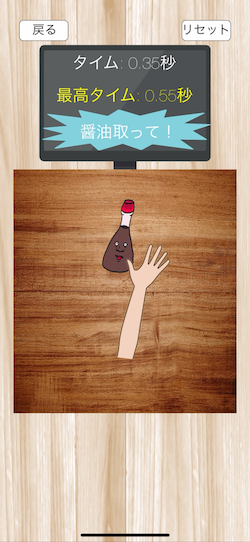
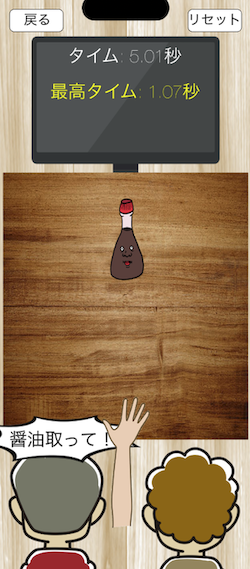
キャラクターを追加、メッセージをランダム表示

diff --git a/GetTheSeasoning/GameScene.swift b/GetTheSeasoning/GameScene.swift
@@ -16,9 +16,15 @@ class GameScene: SKScene, SKPhysicsContactDelegate {
     var flooring: SKSpriteNode!
     var monitor: SKSpriteNode!
     var desk: SKSpriteNode!
+    var mother: SKSpriteNode!
+    var father: SKSpriteNode!
     var arm: SKSpriteNode!
     var soysauce: SKSpriteNode!
     var messageImage: SKSpriteNode!
+    
+    var talker: Int!
+    
+    var isArmMoveRestriction: Bool = true  // 腕のY軸移動制限
     
     var timerLabel: SKLabelNode!
     var bestTime: TimeInterval = Double.greatestFiniteMagnitude
@@ -100,7 +106,21 @@ class GameScene: SKScene, SKPhysicsContactDelegate {
         desk.position = CGPoint(x: frame.midX, y: frame.midY - 50)
         desk.zPosition = 0
         addChild(desk)
-    
+
+        // お父さん
+        let fatherTexture = SKTexture(imageNamed: "father")
+        father = SKSpriteNode(texture: fatherTexture, size: CGSize(width: 400, height: 400))
+        father.position = CGPoint(x: frame.midX - 150, y: frame.midY - 500)
+        father.zPosition = 0
+        addChild(father)
+
+        // お母さん
+        let motherTexture = SKTexture(imageNamed: "mother")
+        mother = SKSpriteNode(texture: motherTexture, size: CGSize(width: 400, height: 400))
+        mother.position = CGPoint(x: frame.midX + 150, y: frame.midY - 500)
+        mother.zPosition = 0
+        addChild(mother)
+        
         // タイム計測
         timerLabel = SKLabelNode(text: "タイム: 0秒")
         timerLabel.position = CGPoint(x: frame.midX, y: frame.maxY - 170)
@@ -123,6 +143,7 @@ class GameScene: SKScene, SKPhysicsContactDelegate {
         // 腕に物理ボディを追加
         arm.physicsBody = SKPhysicsBody(texture: armTexture, size: arm.size)
         arm.physicsBody?.isDynamic = true
+//        arm.physicsBody?.allowsRotation = false // 回転しない
         arm.physicsBody?.categoryBitMask = PhysicsCategory.arm
         arm.physicsBody?.contactTestBitMask = PhysicsCategory.soySauce | PhysicsCategory.wall
         arm.physicsBody?.collisionBitMask = PhysicsCategory.soySauce | PhysicsCategory.wall
@@ -134,6 +155,13 @@ class GameScene: SKScene, SKPhysicsContactDelegate {
         spawnSoysauce()
         // 指示
         startMessageTimer()
+    }
+    
+    override func update(_ currentTime: TimeInterval) {
+        // 腕の位置を制限する
+        if isArmMoveRestriction {
+            arm.position.y = min(frame.midY - 400, arm.position.y) // 初期位置より上には移動不可
+        }
     }
     
     // 戻るボタン
@@ -194,9 +222,15 @@ class GameScene: SKScene, SKPhysicsContactDelegate {
         currentMessageLabel?.removeFromParent()
         
         let messageLabel = SKLabelNode(text: message)
-        messageLabel.position = CGPoint(x: frame.midX, y: frame.maxY - 340)
+        if talker == 0 {
+            // father
+            messageLabel.position = CGPoint(x: frame.midX - 150, y: frame.midY - 365)
+        } else {
+            // mother
+            messageLabel.position = CGPoint(x: frame.midX + 150, y: frame.midY - 365)
+        }
         messageLabel.fontSize = 40
-        messageLabel.fontColor = SKColor.white
+        messageLabel.fontColor = SKColor.black
         messageLabel.zPosition = 2
         addChild(messageLabel)
         // 現在のメッセージ
@@ -208,19 +242,28 @@ class GameScene: SKScene, SKPhysicsContactDelegate {
         guard !isIndicatingFlag else { return }
         isIndicatingFlag = true;
 
-        let interval = Double.random(in: 6.0...8.0);
+        let interval = Double.random(in: 7.0...10.0);
         messageTimer = Timer.scheduledTimer(withTimeInterval: interval, repeats: true) { [weak self] _ in
             guard let self = self else { return }
+            talker = Int.random(in: 0...1)  // 指示を出す人
             // メッセージの吹き出し
-            let messageImageTexture = SKTexture(imageNamed: "messageImage")
-            messageImage = SKSpriteNode(texture: messageImageTexture, size: CGSize(width: 450, height: 110))
-            messageImage.position = CGPoint(x: frame.midX, y: frame.maxY - 320)
+            self.messageImage?.removeFromParent()
+            let messageHardTexture = SKTexture(imageNamed: "message_hard")
+            messageImage = SKSpriteNode(texture: messageHardTexture, size: CGSize(width: 370, height: 110))
+            if talker == 0 {
+                // father
+                messageImage.position = CGPoint(x: frame.midX - 150, y: frame.midY - 350)
+            } else {
+                // mother
+                messageImage.position = CGPoint(x: frame.midX + 150, y: frame.midY - 350)
+            }
             if let messageImage = self.messageImage {
                 self.messageImage.zPosition = 1
                 self.addChild(messageImage)
             }
             self.showMessage("醤油取って！")
             self.startTimer()
+            isArmMoveRestriction = false
         }
     }
     
@@ -338,8 +381,8 @@ class GameScene: SKScene, SKPhysicsContactDelegate {
         wall.physicsBody = SKPhysicsBody(rectangleOf: wall.size)
         wall.physicsBody?.isDynamic = false
         wall.physicsBody?.categoryBitMask = PhysicsCategory.wall
-        wall.physicsBody?.contactTestBitMask = PhysicsCategory.arm
-        wall.physicsBody?.collisionBitMask = PhysicsCategory.arm
+        wall.physicsBody?.contactTestBitMask = PhysicsCategory.arm | PhysicsCategory.soySauce
+        wall.physicsBody?.collisionBitMask = PhysicsCategory.arm | PhysicsCategory.soySauce
         addChild(wall)
     }
     
@@ -353,16 +396,32 @@ class GameScene: SKScene, SKPhysicsContactDelegate {
         
         // メッセージ吹き出しを削除
         messageImage?.removeFromParent()
-        if elapsedTime < 0.5 {
-            showMessage("はやすぎぃ〜")
-        } else if elapsedTime < 1 {
-            showMessage("はっやぁ〜")
-        } else if elapsedTime > 3 {
-            showMessage("おっそぉ〜")
+        // メッセージの吹き出し(柔らかい口調)
+        let messageSoftTexture = SKTexture(imageNamed: "message_soft")
+        messageImage = SKSpriteNode(texture: messageSoftTexture, size: CGSize(width: 330, height: 110))
+        if talker == 0 {
+            // father
+            messageImage.position = CGPoint(x: frame.midX - 150, y: frame.midY - 365)
         } else {
-            showMessage("ふっつぅ〜！")
+            // mother
+            messageImage.position = CGPoint(x: frame.midX + 150, y: frame.midY - 365)
         }
+        if let messageImage = self.messageImage {
+            self.messageImage.zPosition = 1
+            self.addChild(messageImage)
+        }
+        if elapsedTime < 0.5 {
+            showMessage("はやっ！")
+        } else if elapsedTime < 1 {
+            showMessage("早いな〜")
+        } else if elapsedTime > 3 {
+            showMessage("遅いな〜")
+        } else {
+            showMessage("ありがとさん")
+        }
+        // メッセージを削除
         DispatchQueue.main.asyncAfter(deadline: .now() + 2.0) {
+            self.messageImage?.removeFromParent()
             self.currentMessageLabel?.removeFromParent()
             self.currentMessageLabel = nil
         }
@@ -375,9 +434,10 @@ class GameScene: SKScene, SKPhysicsContactDelegate {
         
         // 指示中フラグの解除
         isIndicatingFlag = false;
-        // 腕を初期位置に戻す
+        // 腕を初期状態にする
         resetArmPosition()
         isHoldingSoy = false
+        isArmMoveRestriction = true
 
         stopTimer()
         // 2秒後にタイマーを初期化、醤油を再生成
